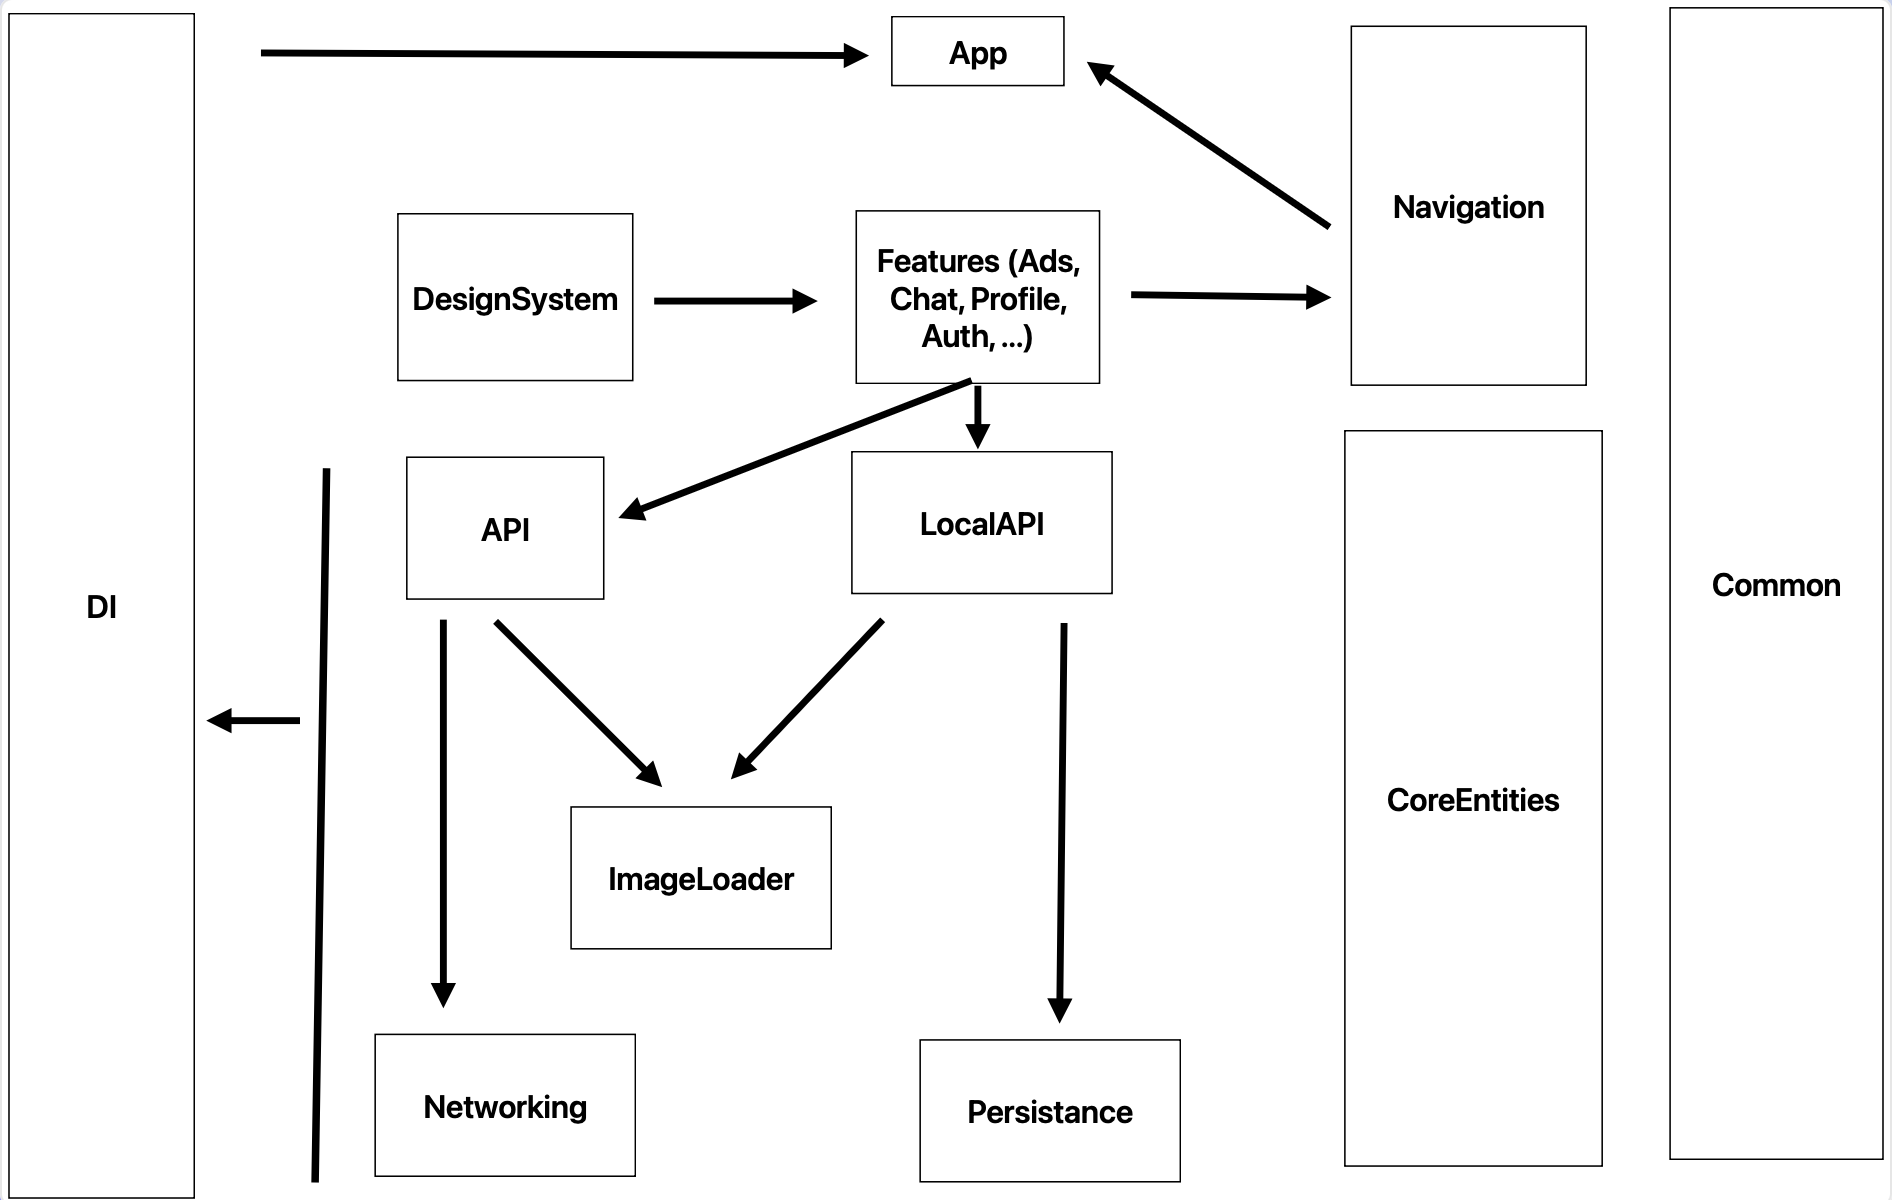
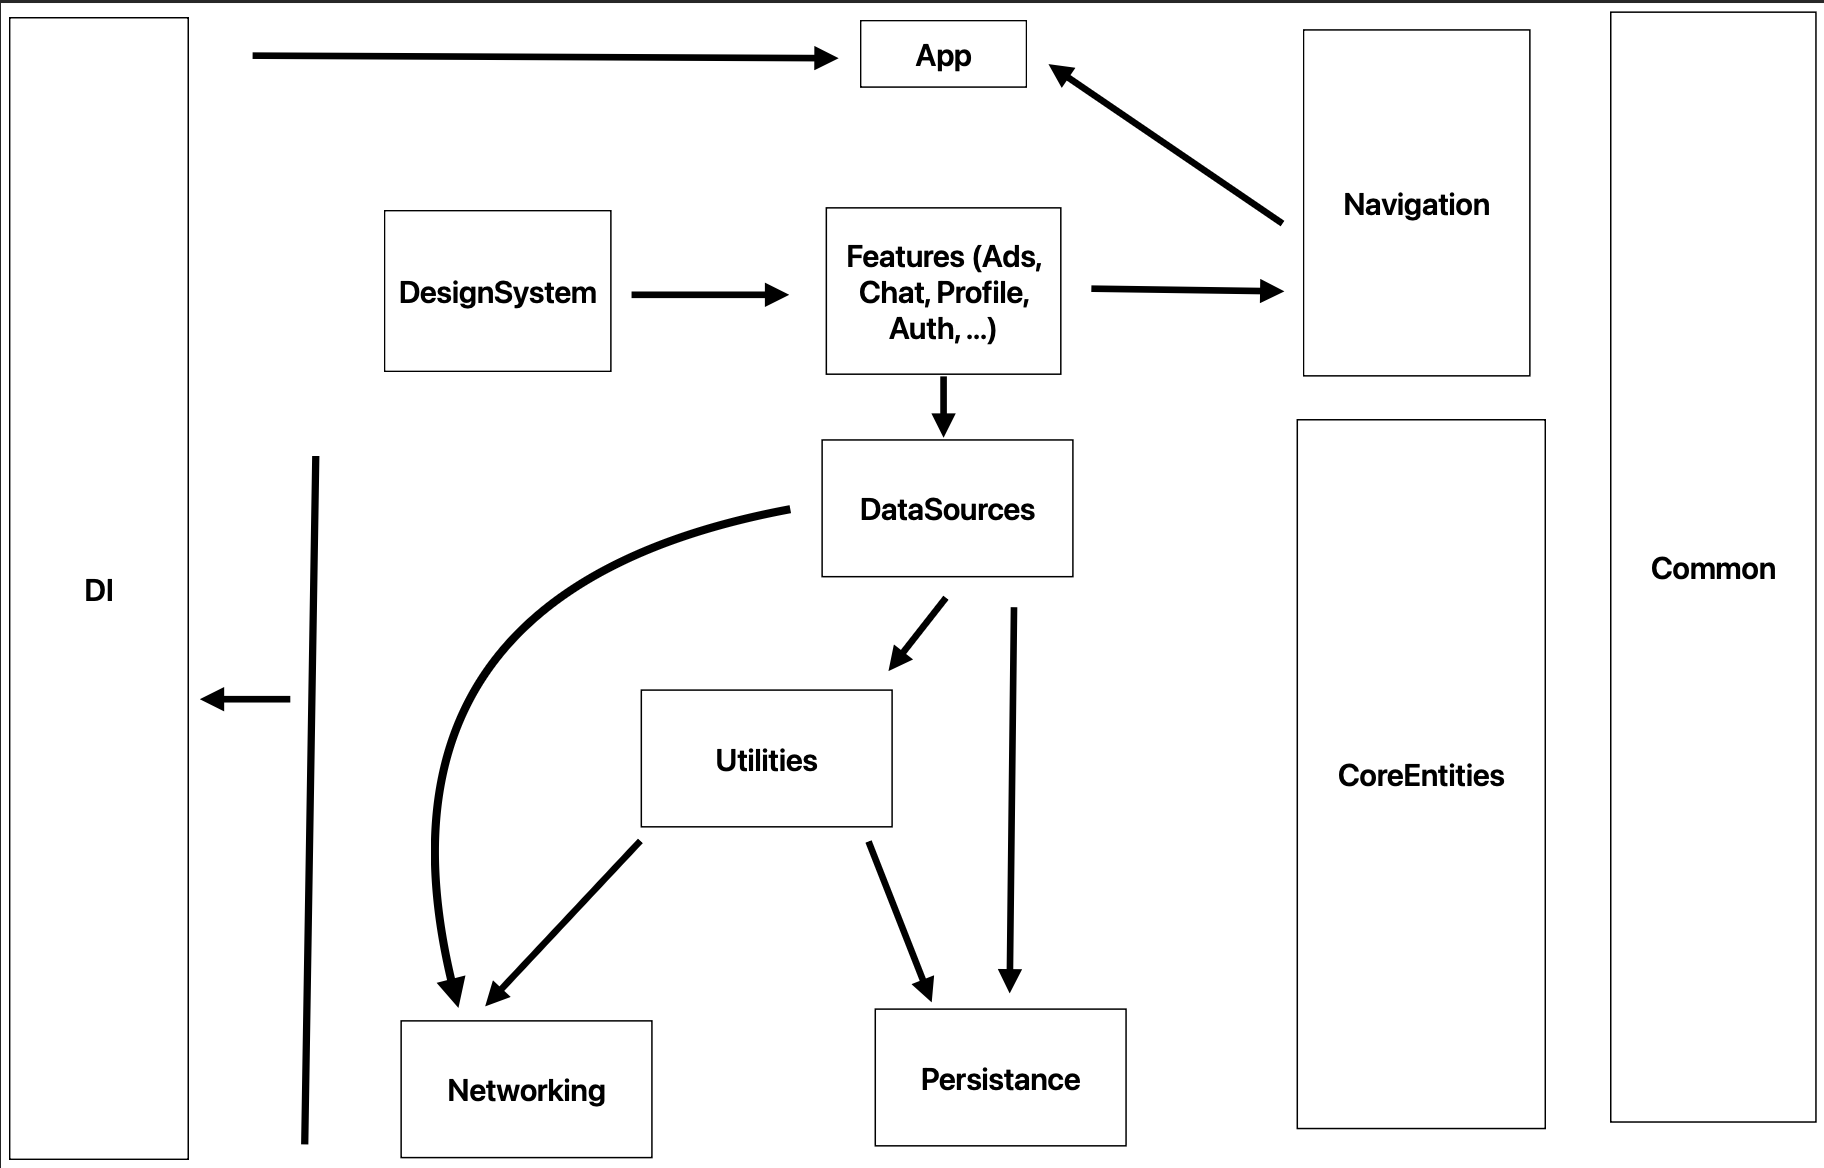
update README

diff --git a/README.md b/README.md
@@ -11,11 +11,10 @@
 * **ChatFeature** - Чат
 * **ProfileFeature** - Профиль
 * **AuthFeature** - Авторизация
-* **API** - Содержит Network DataSources
-* **LocalAPI** - Содержит Local DataSources
+* **DataSources** - Содержит Local и Network Data Sources
 * **Networking** - Обретка над сетевым слоем (URLSession в моем случае)
 * **Persistance** - Обертка над local persistance (CoreData в моем случае)
-* **ImageLoader** - Содержит фунционал для скачивания изображений
+* **Utilties** - Содержит сервисы-утилиты
 * **Analytics** - Аналитика
 * **Logger** - Логирование
 
